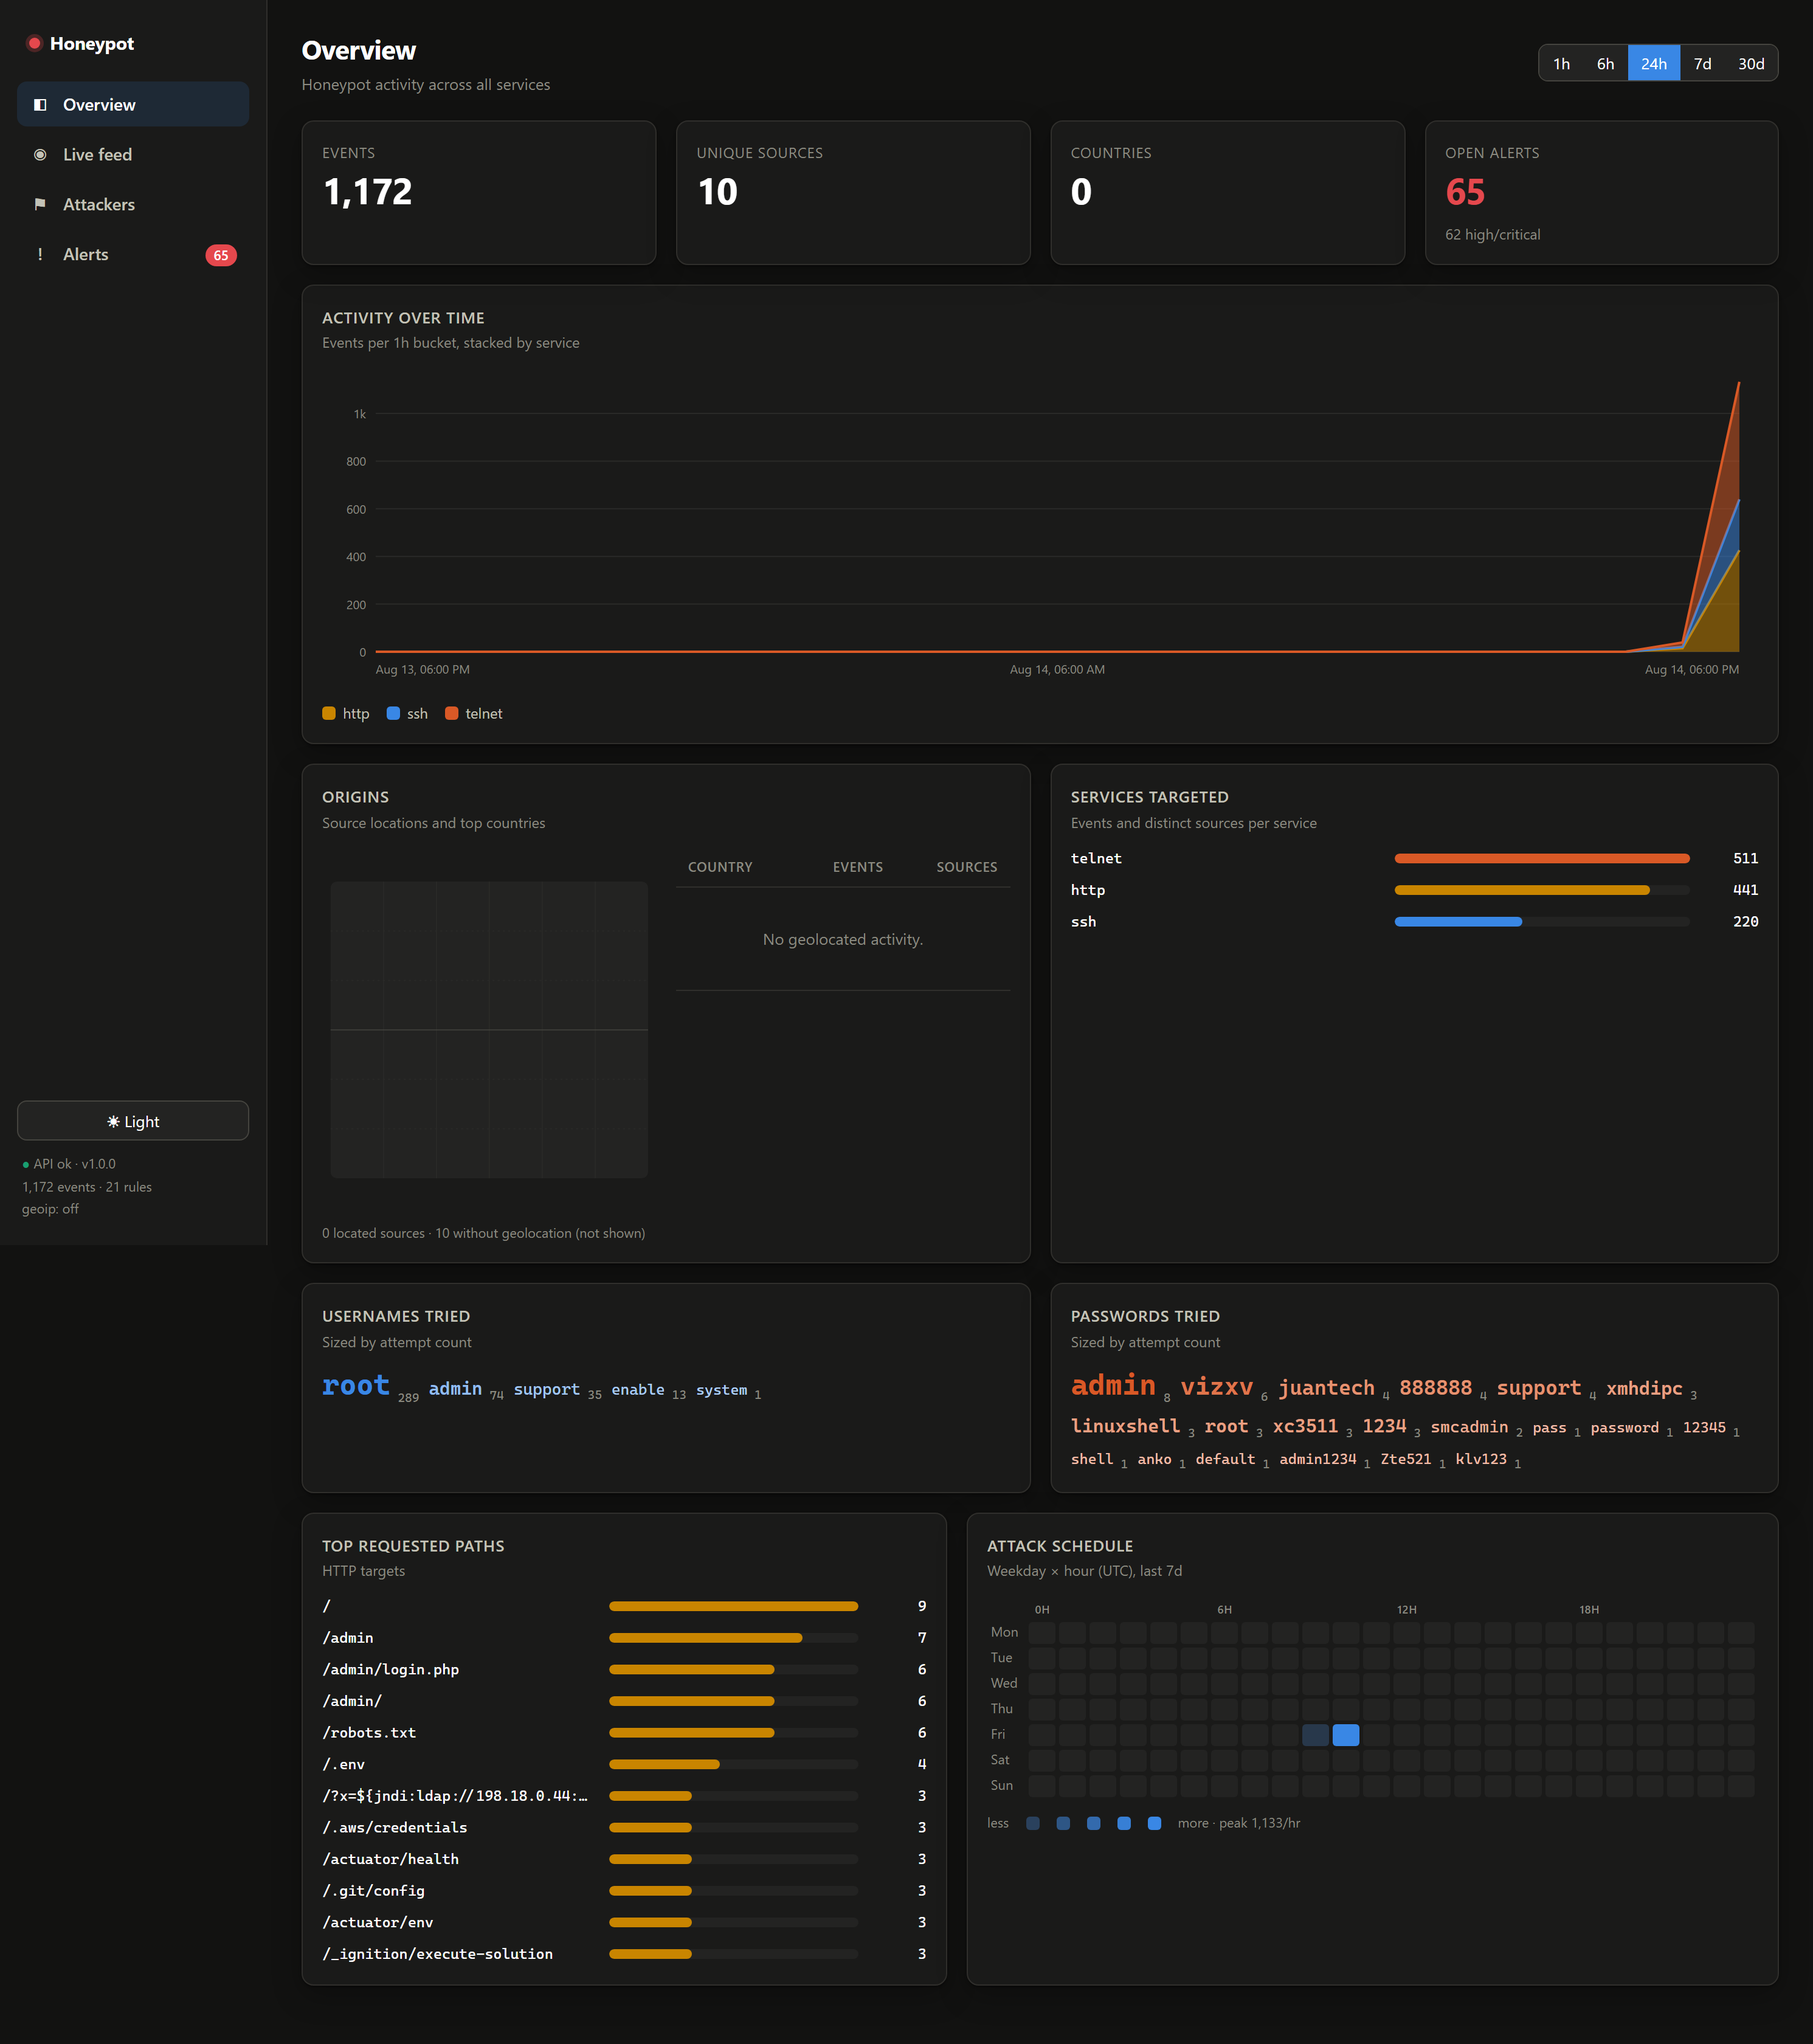
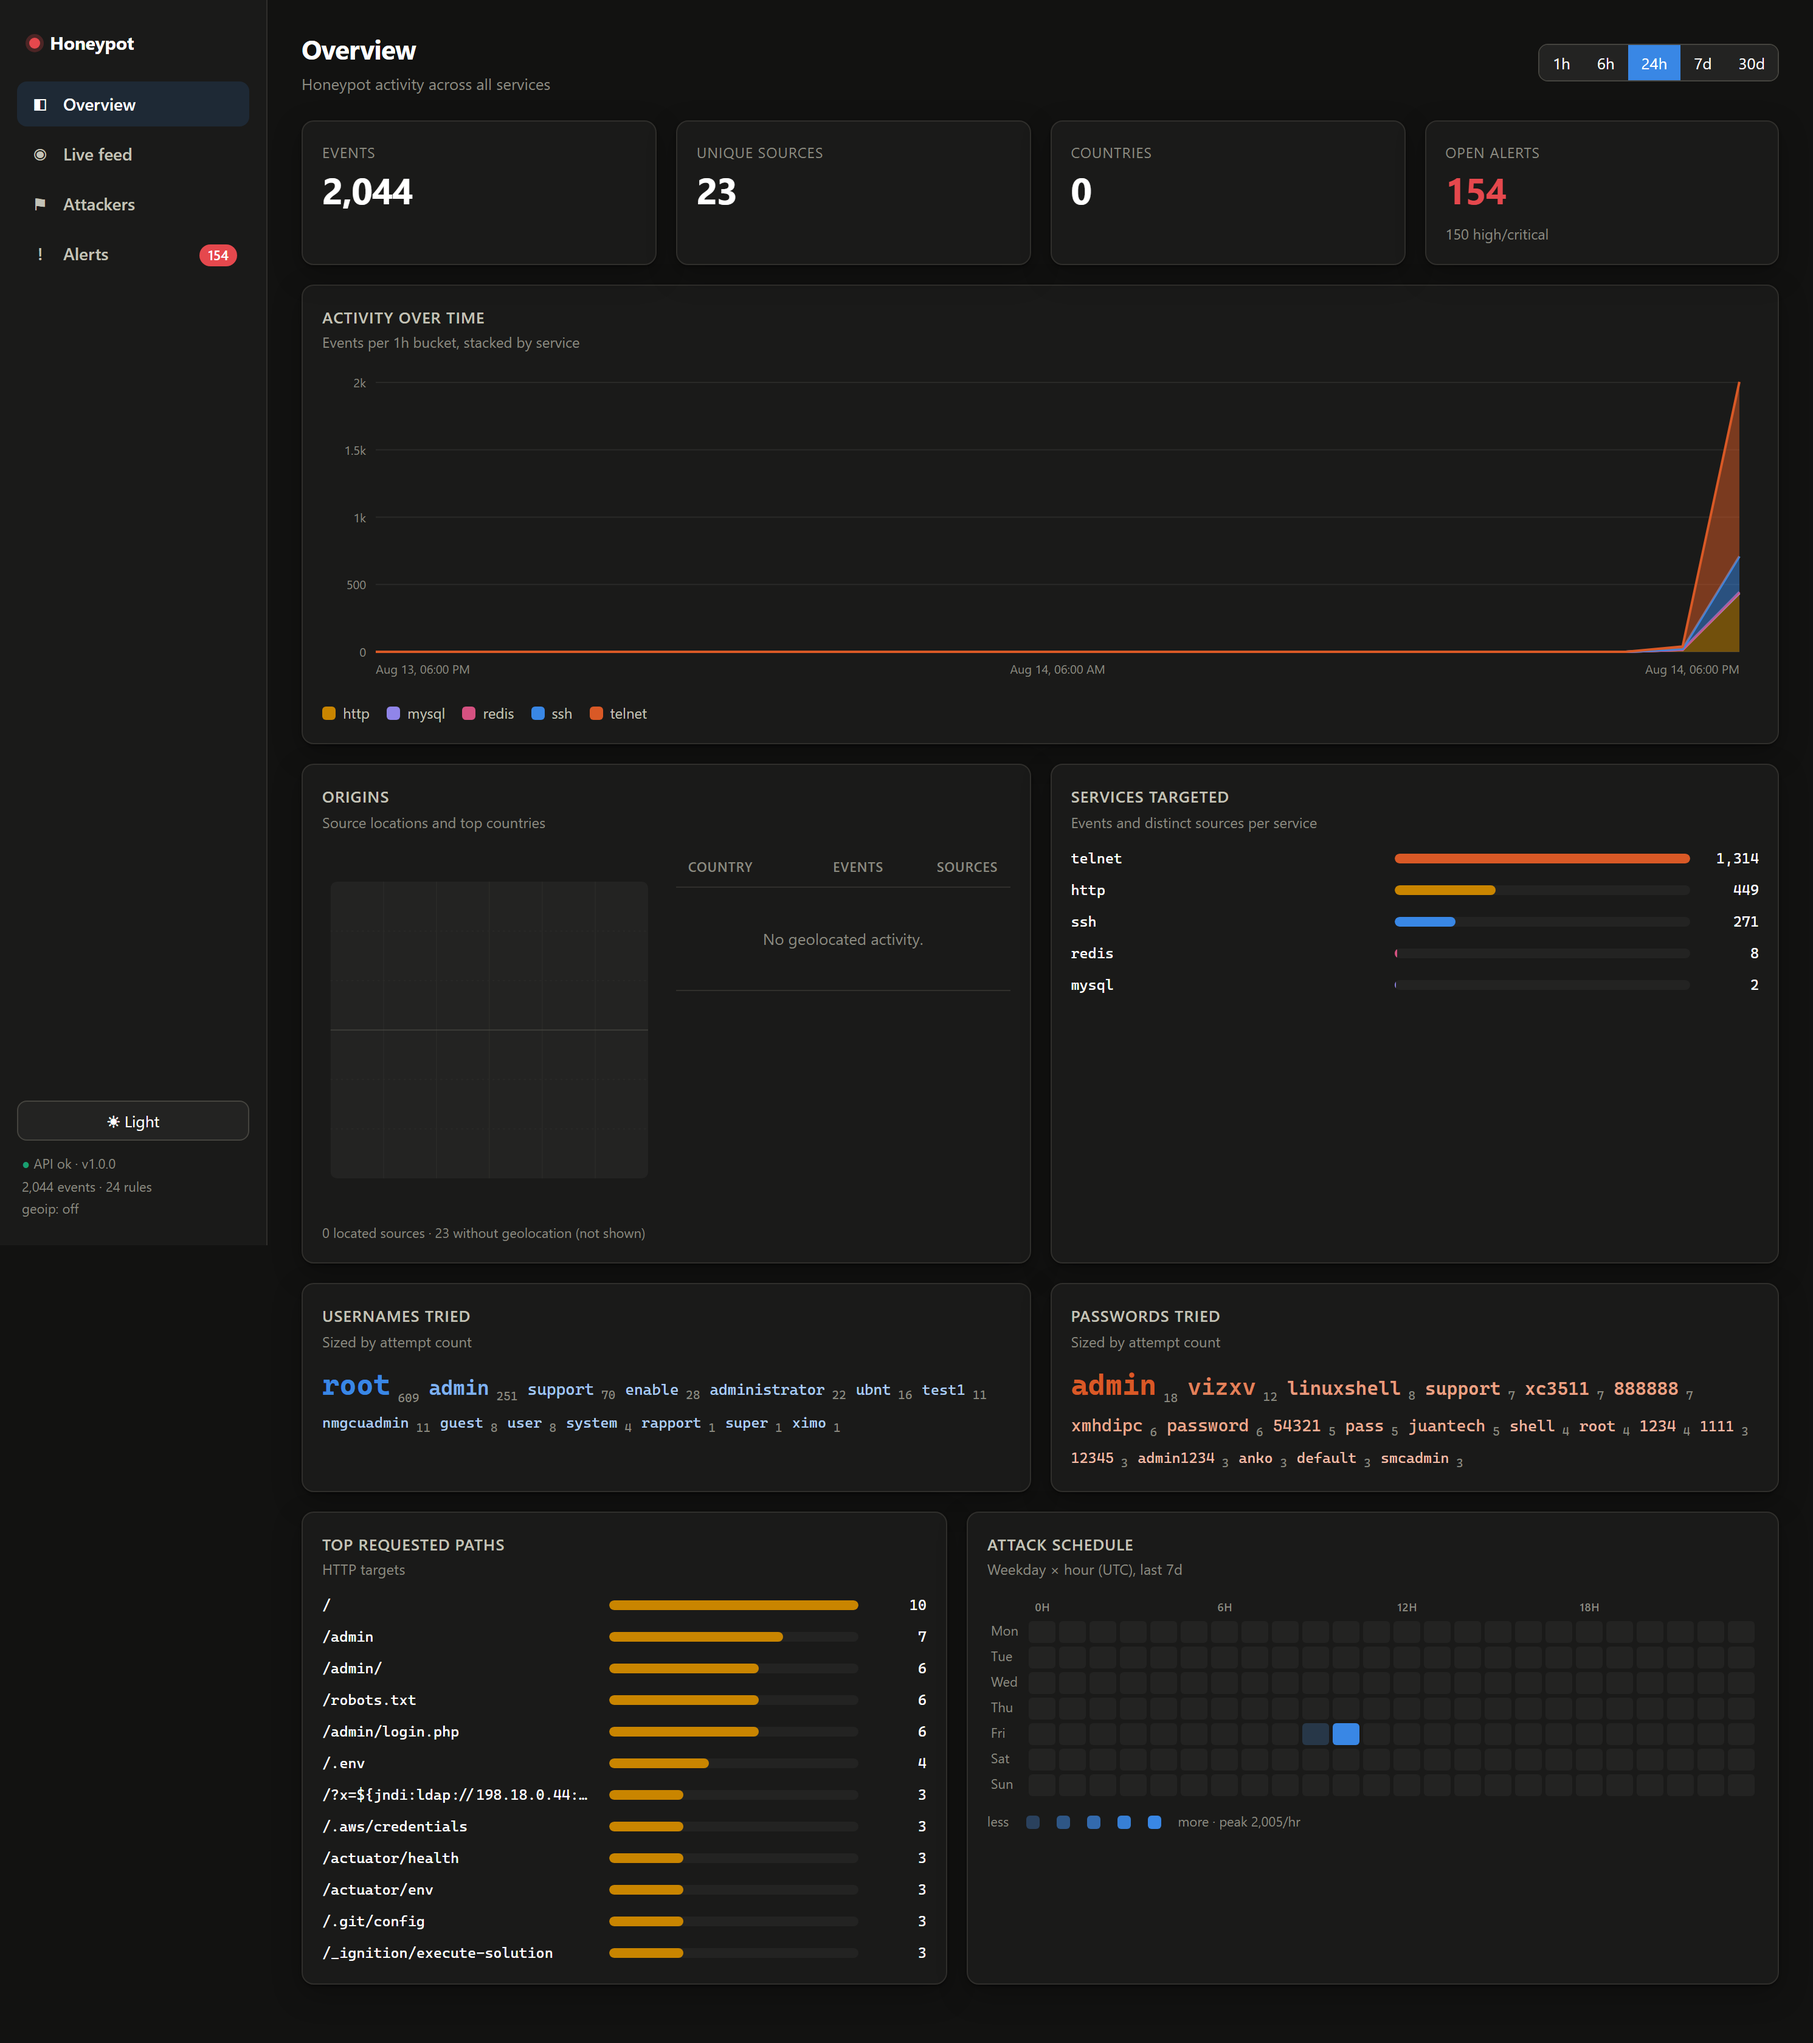
Update evidence + runbook for the operational upgrade
Six bait services (adds Redis/MySQL), real-time alerting, 159k threat-intel
indicators, IOC export endpoints, and backup/retention/fail2ban hardening — all
deployed and verified live. Refreshed dashboard screenshots and Azure NSG rows
(adds 6379/3306).

diff --git a/docs/deployment-azure.md b/docs/deployment-azure.md
@@ -19,7 +19,11 @@ In the Azure portal, on the VM's NSG, create two inbound rules:
 | Priority | Name | Source | Dest ports | Protocol | Action |
 |---------:|------|--------|-----------|----------|--------|
 | 300 | `Allow-Admin-SSH-62222` | **My IP** (your workstation) | `62222` | TCP | Allow |
-| 310 | `Allow-Honeypot-Public` | `Any` | `22,23,80,21` | TCP | Allow |
+| 310 | `Allow-Honeypot-Public` | `Any` | `22,23,80,21,6379,3306` | TCP | Allow |
+
+Ports `6379` (Redis) and `3306` (MySQL) are the datastore bait — include them in
+rule 310 (or add a second rule) so those services actually receive traffic. They
+run inside the sensor either way, but the NSG must let the internet reach them.
 
 **The admin rule's Source must be your own workstation IP — never `Any`.** An
 admin SSH port open to the world defeats the point of moving it. Leave the
@@ -144,6 +148,39 @@ Detection now runs every 5 minutes. Trigger it once immediately:
 ```bash
 ~/honeypot-cron.sh && echo "first detection run done"
 ```
+
+## 6b. Operational upgrades (optional but recommended)
+
+**Real-time alerting** — set a webhook so new high-severity alerts page you.
+Create a `.env` next to `docker-compose.yml` and recreate the API:
+
+```bash
+echo 'ALERT_WEBHOOK_URL=https://hooks.slack.com/services/XXX/YYY/ZZZ' >> .env
+echo 'ALERT_MIN_SEVERITY=high' >> .env
+sudo docker compose up -d api
+```
+
+Slack/Discord/Teams/generic are auto-detected from the URL.
+
+**Threat-intel feeds** — load real blocklists so `known-bad`/high-score matches
+fire (the sensor mounts `data/indicators/` read-only; a weekly cron refreshes):
+
+```bash
+python3 -m tools.refresh_indicators --defaults   # blocklist.de + ipsum + firehol
+sudo docker compose restart sensor               # pick up the new indicators
+```
+
+**IOC export** — pull deployable indicators any time (also written hourly to
+`exports/` by cron):
+
+```bash
+curl "http://localhost:8080/api/export/blocklist?min_score=60"
+curl "http://localhost:8080/api/export/stix?min_score=60"
+```
+
+**Backups / retention / fail2ban** — nightly `pg_dump` (7-day rotation), 45-day
+event pruning, and a `fail2ban` sshd jail on port 62222 are installed as host
+cron jobs and a systemd service. Adjust the schedules in `crontab -l`.
 
 ## 7. View the dashboard (SSH tunnel)
 

diff --git a/docs/live-evidence.md b/docs/live-evidence.md
@@ -11,6 +11,26 @@ enriches, detects, scores and visualises real attacker activity.
   reached only through an SSH tunnel
 - **Automation:** detection + attacker scoring re-run every 5 minutes via cron
 
+## Operational upgrades (live)
+
+Beyond the base sensor, the deployment runs as a full operational system:
+
+- **Six bait services** — SSH, Telnet, FTP, HTTP, **Redis**, **MySQL**. The Redis
+  emulator captures the unauthenticated-RCE chain (`CONFIG SET`, `SLAVEOF`,
+  `MODULE LOAD`, SSH-key/cron `SET` payloads) and MySQL captures login usernames
+  — both executing nothing. New rules `redis_rce_attempt`,
+  `redis_dangerous_command`, `mysql_bruteforce` fire on them.
+- **Real-time alerting** — newly-raised high/critical alerts push to a
+  Slack/Discord/Teams/webhook (idempotent, severity-gated, rate-capped).
+- **Threat intelligence** — **159,821 indicators** loaded from blocklist.de,
+  ipsum and FireHOL level-1; enrichment now scores known-bad sources (verified:
+  a feed IP resolves to score 80 with tags `ti:blocklist-de, ti:ipsum`).
+  Refreshed weekly.
+- **IOC output** — `/api/export/{blocklist,stix,misp}` serve deployable
+  indicators; an hourly cron writes `exports/blocklist.txt` and a STIX bundle.
+- **Hardening** — nightly PostgreSQL backups (7-day rotation), 45-day event
+  retention pruning, and `fail2ban` guarding the admin SSH port behind the NSG.
+
 ## Live metrics (24h window)
 
 | Metric | Value |
